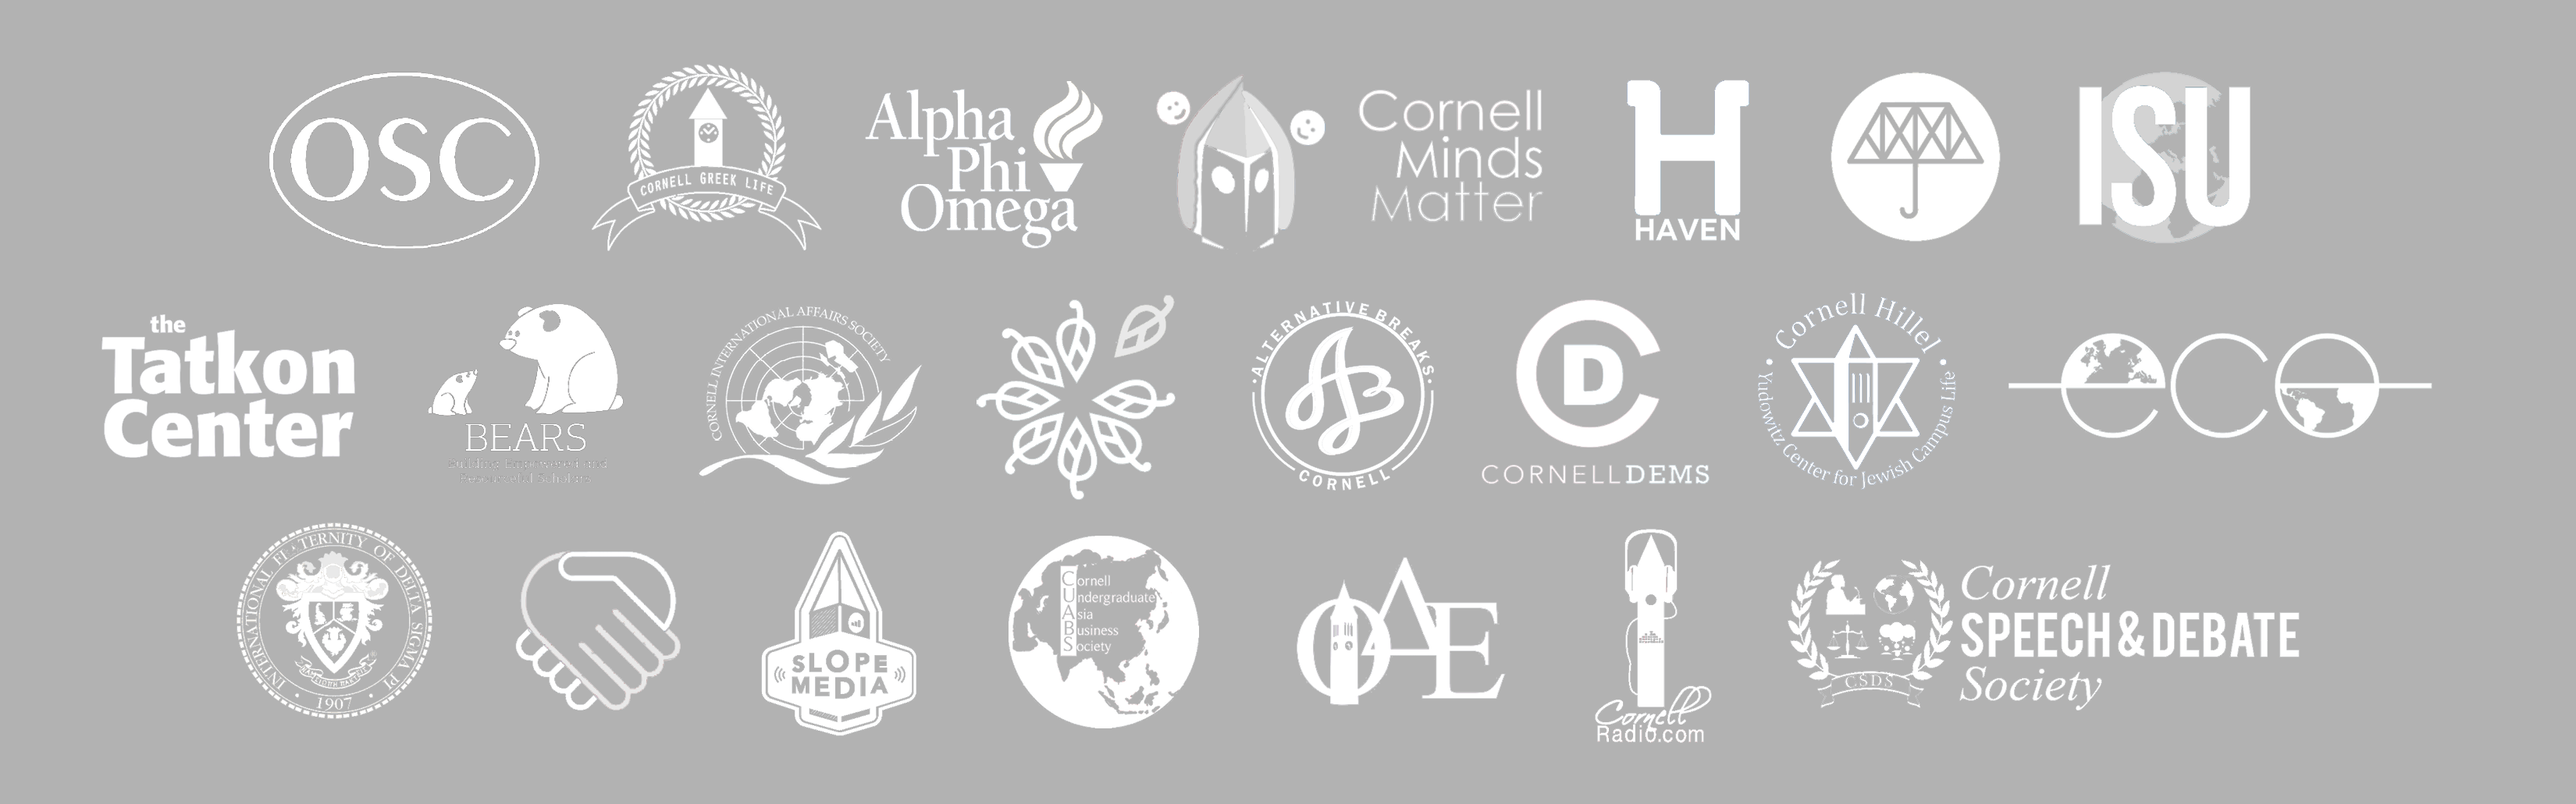
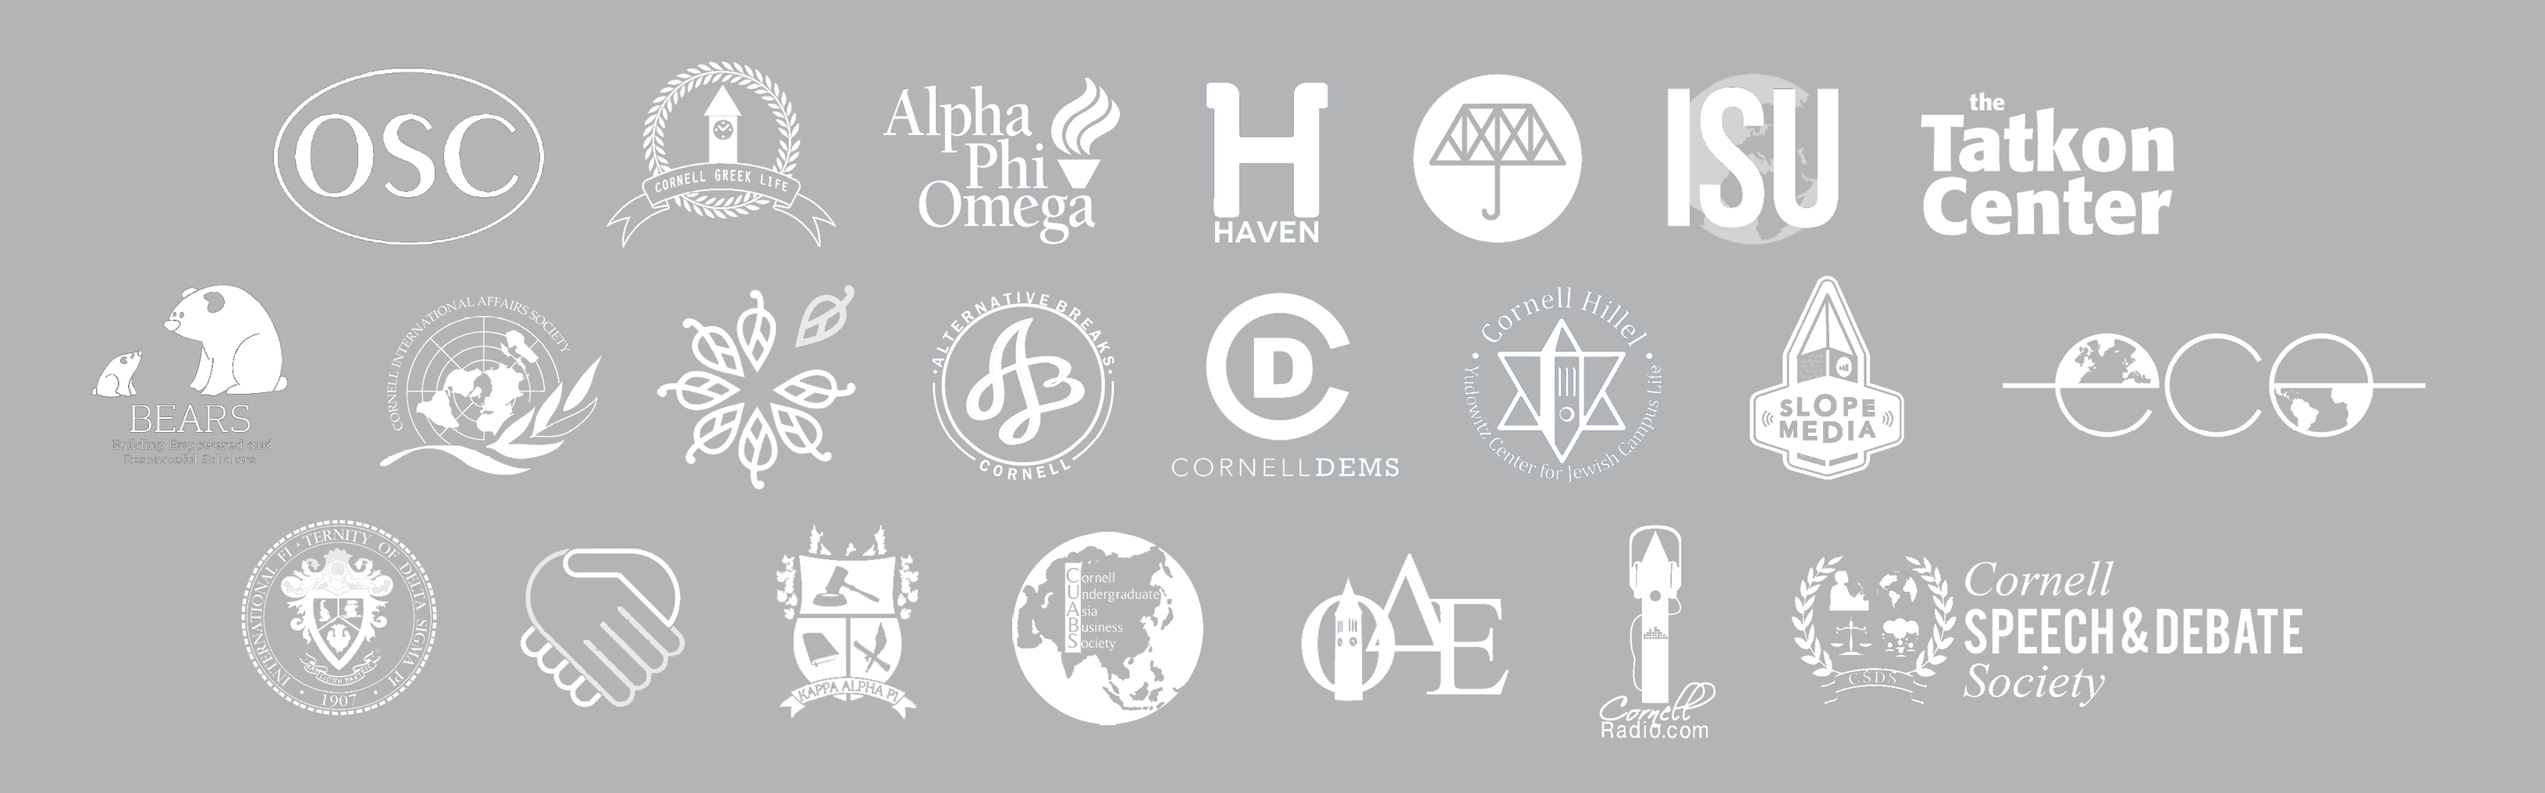
Zach Final Touches 2.5.15

diff --git a/templates/newstudent/basic.html b/templates/newstudent/basic.html
@@ -145,57 +145,57 @@ $(function() {
     var $partnering_label = $('#id_partnering_7').parent();
     $partnering_label.contents().filter(function() {
       return this.nodeType === 3;
-    }).wrap( "<a href='http://orgsync.rso.cornell.edu/org/cornellmindsmatter' target=blank></a>" )
+    }).wrap( "<a href='http://www.cornellpoliticalunion.org/' target=blank></a>" )
 
     var $partnering_label = $('#id_partnering_8').parent();
     $partnering_label.contents().filter(function() {
       return this.nodeType === 3;
-    }).wrap( "<a href='http://www.cornellpoliticalunion.org/' target=blank></a>" )
+    }).wrap( "<a href='http://cornellradio.com/' target=blank></a>" )
 
     var $partnering_label = $('#id_partnering_9').parent();
     $partnering_label.contents().filter(function() {
       return this.nodeType === 3;
-    }).wrap( "<a href='http://cornellradio.com/' target=blank></a>" )
+    }).wrap( "<a href='http://www.cornellcuabs.com/' target=blank></a>" )
 
     var $partnering_label = $('#id_partnering_10').parent();
     $partnering_label.contents().filter(function() {
       return this.nodeType === 3;
-    }).wrap( "<a href='http://www.cornellcuabs.com/' target=blank></a>" )
+    }).wrap( "<a href='http://cornelldsp.com/' target=blank></a>" )
 
     var $partnering_label = $('#id_partnering_11').parent();
     $partnering_label.contents().filter(function() {
       return this.nodeType === 3;
-    }).wrap( "<a href='http://cornelldsp.com/' target=blank></a>" )
+    }).wrap( "<a href='http://cornelleco.weebly.com/' target=blank></a>" )
 
     var $partnering_label = $('#id_partnering_12').parent();
     $partnering_label.contents().filter(function() {
       return this.nodeType === 3;
-    }).wrap( "<a href='http://cornelleco.weebly.com/' target=blank></a>" )
+    }).wrap( "<a href='http://fortecampuscornell.strikingly.com/' target=blank></a>" )
 
     var $partnering_label = $('#id_partnering_13').parent();
     $partnering_label.contents().filter(function() {
       return this.nodeType === 3;
-    }).wrap( "<a href='http://fortecampuscornell.strikingly.com/' target=blank></a>" )
+    }).wrap( "<a href='http://dos.cornell.edu/fraternity-sorority-life' target=blank></a>" )
 
     var $partnering_label = $('#id_partnering_14').parent();
     $partnering_label.contents().filter(function() {
       return this.nodeType === 3;
-    }).wrap( "<a href='http://dos.cornell.edu/fraternity-sorority-life' target=blank></a>" )
+    }).wrap( "<a href='http://dos.cornell.edu/lgbt-resource-center' target=blank></a>" )
 
     var $partnering_label = $('#id_partnering_15').parent();
     $partnering_label.contents().filter(function() {
       return this.nodeType === 3;
-    }).wrap( "<a href='http://dos.cornell.edu/lgbt-resource-center' target=blank></a>" )
+    }).wrap( "<a href='http://cornell.hillel.org/' target=blank></a>" )
 
     var $partnering_label = $('#id_partnering_16').parent();
     $partnering_label.contents().filter(function() {
       return this.nodeType === 3;
-    }).wrap( "<a href='http://cornell.hillel.org/' target=blank></a>" )
+    }).wrap( "<a href='http://www.cornellisu.com/' target=blank></a>" )
 
     var $partnering_label = $('#id_partnering_17').parent();
     $partnering_label.contents().filter(function() {
       return this.nodeType === 3;
-    }).wrap( "<a href='http://www.cornellisu.com/' target=blank></a>" )
+    }).wrap( "<a href='http://www.cornellkapi.com/' target=blank></a>" )
 
     var $partnering_label = $('#id_partnering_18').parent();
     $partnering_label.contents().filter(function() {

diff --git a/newstudent/forms.py b/newstudent/forms.py
@@ -36,7 +36,6 @@ class NewStudentForm(forms.Form):
         ('CAPSU','CAPSU'),
         ('CIAS','CIAS'),
         ('Cornell Dems','Cornell Dems'),
-        ('Cornell Minds Matter','Cornell Minds Matter'),
         ('Cornell Political Union','Cornell Political Union'),
         ('CornellRadio.com','CornellRadio.com'),
         ('CUABS','CUABS'),
@@ -47,6 +46,7 @@ class NewStudentForm(forms.Form):
         ('Hillel','Hillel'),
         ('IFC','IFC'),
         ('ISU','ISU'),
+        ('KAPi','KAPi'),
         ('MGLC','MGLC'),
         ('OSC','OSC'),
         ('PHC','PHC'),
@@ -334,7 +334,6 @@ class NewStudentForm(forms.Form):
         ('CAPSU','Cornell Asian Pacific Islander Student Union (CAPSU): Representing and connecting the Asian community at Cornell'),
         ('CIAS','Cornell International Affairs Society (CIAS): Discussions of international affairs and the Cornell group for Model UN'),
         ('Cornell Dems','Cornell Dems: Promoting, supporting, and engaging the Democratic Party at Cornell'),
-        ('Cornell Minds Matter','Cornell Minds Matter: Promotes the overall mental and emotional health of all Cornell students'),
         ('Cornell Political Union','Cornell Political Union: Bringing Democrats and Republicans together in meaningful discussion'),
         ('Cornell Radio','CornellRadio.com: An online radio station programmed by and for Cornell students'),
         ('CUABS','Cornell Undergraduate Asia Business Society (CUABS): A team of students passionate about contributing to the future of Asia'),
@@ -345,6 +344,7 @@ class NewStudentForm(forms.Form):
         ('Haven','Haven: The LGBTQ+ student union at Cornell, providing community, support and education for LGBTQ+ students and allies'),
         ('Hillel','Hillel: The hub for Jewish community, religious, and cultural life for Jewish students of all backgrounds'),
         ('ISU','International Student Union (ISU): A diverse group of students promoting engagement about world cultures and issues'),
+        ('KAPi','Kappa Alpha Pi: A selective pre law fraternity committed to preparing students for law school applications and a legal career'),
         ('OSC','Orientation Steering Committee (OSC): The student group responsible for organizing new student orientation'),
         ('Phi Delta Epsilon','Phi Delta Epsilon International Medical Fraternity: A top premed fraternity at Cornell'),
         ('Slope Media','Slope Media: As the Cornell multimedia powerhouse, Slope is a leader in Cornell-related media and entertainment'),

diff --git a/upperclassman/forms.py b/upperclassman/forms.py
@@ -216,7 +216,6 @@ class UpperClassmanForm(forms.Form):
         ('CAPSU','CAPSU'),
         ('CIAS','CIAS'),
         ('Cornell Dems','Cornell Dems'),
-        ('Cornell Minds Matter','Cornell Minds Matter'),
         ('Cornell Political Union','Cornell Political Union'),
         ('CornellRadio.com','CornellRadio.com'),
         ('CUABS','CUABS'),
@@ -227,6 +226,7 @@ class UpperClassmanForm(forms.Form):
         ('Hillel','Hillel'),
         ('IFC','IFC'),
         ('ISU','ISU'),
+        ('KAPi','KAPi'),
         ('MGLC','MGLC'),
         ('OSC','OSC'),
         ('PHC','PHC'),
